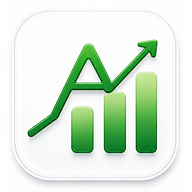
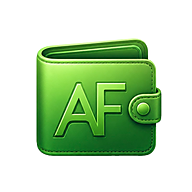
feat(TASK_040): новая иконка приложения — зелёный кошелёк AF (IMG_4615.jpg)
icon-512/icon-192/apple-touch-icon/favicon-32 заменены на утверждённый
пользователем логотип (зелёный кошелёк с буквами AF на белой squircle-
подложке), полученный из IMG_4615.jpg: Display P3 → sRGB, удаление
фонового артефакта скриншота вокруг подложки (замена на тот же белый),
выравнивание кадра до квадрата без обрезки композиции. Дизайн не
перерисован. manifest.json/index.html правок не потребовали. Версия кэша
sw.js finance-v169 → finance-v170.

diff --git a/sw.js b/sw.js
@@ -1,5 +1,5 @@
 // Service worker — офлайн-кэш приложения
-const CACHE = 'finance-v169';
+const CACHE = 'finance-v170';
 const ASSETS = [
   './',
   './index.html',

diff --git a/docs/tasks/TASK_040_APP_ICON_WALLET_AF_ASSET.md b/docs/tasks/TASK_040_APP_ICON_WALLET_AF_ASSET.md
@@ -1,0 +1,217 @@
+# TASK_040 — Новая иконка приложения: зелёный кошелёк AF (IMG_4615.jpg)
+
+- **Номер:** TASK_040
+- **Название:** App icon wallet AF asset
+- **Статус:** DONE
+- **Создан:** 2026-08-19
+- **Реализация начата:** 2026-08-19
+- **Реализация завершена:** 2026-08-19
+
+---
+
+## 1. Контекст
+
+Точечная задача по прямому запросу пользователя (аналогична по типу
+`TASK_012`, но с новым исходником и без старого дизайна графика/стрелки).
+Пользователь утвердил финальный логотип — `IMG_4615.jpg` (зелёный кошелёк
+с крупными буквами «AF» на белой скруглённой iOS-подложке) — и попросил
+заменить им текущую иконку приложения (график/стрелка роста, результат
+`TASK_012`) во всех местах, где подключаются assets иконки.
+
+## 2. Проверка репозитория (до изменений)
+
+- Ветка `main`, синхронизирована с `origin/main`, чистое дерево кроме
+  предшествующих несвязанных изменений (см. ниже).
+- `IMG_4615.jpg` найден в корне репозитория: **800×787 px**, JPEG,
+  встроенный ICC-профиль **Display P3**, EXIF `description: Screenshot`.
+  Содержимое — зелёный кожаный кошелёк с тиснением «AF» и застёжкой,
+  внутри белой скруглённой квадратной подложки (squircle), сфотографирован/
+  смакетирован на нейтральном тёмно-сером фоне (~rgb(76,76,78)), видимом
+  в четырёх углах кадра за счёт скругления подложки.
+- В рабочем дереве до начала задачи уже были незакоммиченные удаления
+  `apple-touch-icon.png`, `favicon-32.png`, `icon.svg` (та же
+  предшествующая правка пользователя, что зафиксирована в `TASK_012` —
+  подготовка к замене иконки). `icon-192.png`/`icon-512.png` оставались на
+  диске со старым дизайном (график/стрелка, результат `TASK_012`).
+  `.claude/launch.json` — отдельная несвязанная локальная правка (личный
+  конфиг превью), как и прежде.
+
+## 3. Цель
+
+Заменить `icon-192.png`, `icon-512.png`, `apple-touch-icon.png`,
+`favicon-32.png` на набор, полученный из `IMG_4615.jpg`, без изменения
+композиции/дизайна (кошелёк, буквы AF, цвета, стиль) и без изменения кода
+приложения за пределами версии кэша service worker.
+
+## 4. Границы
+
+**Включено:**
+- Чтение `IMG_4615.jpg`.
+- Создание/перезапись `icon-512.png`, `icon-192.png`,
+  `apple-touch-icon.png`, `favicon-32.png`.
+- `sw.js` — версия кэша (стандартная практика проекта при изменении
+  закэшированных байтов ассетов, см. `TASK_012`).
+- `manifest.json`/`index.html` — правка **только если** потребуется
+  (ожидание: не потребуется, имена файлов и размеры совпадают).
+
+**Явно исключено (не трогать):**
+- Сам `IMG_4615.jpg` — не редактируется, не перезаписывается.
+- Дизайн/композиция логотипа: кошелёк, буквы «AF», застёжка, цвета,
+  пропорции — не перерисовываются и не «улучшаются» по собственной
+  инициативе.
+- `icon.svg` — не используется кодом (не найден ни в `index.html`, ни в
+  `manifest.json`, ни в `sw.js` `ASSETS` — подтверждено `grep`, тот же
+  вывод, что в `TASK_012`), остаётся удалённым, вне границ.
+- Любой код приложения, не относящийся к подключению иконки.
+- `.claude/launch.json` — несвязанная предшествующая правка.
+
+## 5. Требования
+
+1. Источником для всех размеров служит буквально `IMG_4615.jpg` (не новый
+   сгенерированный логотип).
+2. Композиция, буквы AF, кошелёк, цвета, стиль — сохранены без
+   перерисовки.
+3. Допустимая техническая обработка исходника — только то, что нужно для
+   технических требований иконок: перевод цветового профиля Display P3 →
+   sRGB (иначе цвета исказятся вне Safari/Chrome с поддержкой P3), удаление
+   фотографического нейтрально-серого фона вокруг подложки (не часть
+   дизайна логотипа — артефакт скриншота/мокапа) с заменой на белый (тот
+   же белый, что и сама подложка кошелька, т.е. не новый цвет), и
+   выравнивание кадра 800×787 до квадрата белыми полями (без обрезки
+   изображения — та же техника, что `TASK_012` для 602×619).
+4. Обязательный набор размеров: 512×512, 192×192, 180×180
+   (`apple-touch-icon`), 32×32 (`favicon`).
+5. Иконка читаема на маленьком размере (эквивалент значка домашнего
+   экрана iPhone).
+6. Все точки подключения (`manifest.json`, `index.html`, `sw.js`)
+   продолжают указывать на корректные файлы.
+7. `IMG_4615.jpg` не изменяется (проверяется по хэшу).
+
+## 6. Критерии готовности
+
+- Все 4 PNG существуют, квадратные, требуемых размеров, без искажения
+  пропорций исходной композиции.
+- `manifest.json`/`index.html`/`sw.js` корректно ссылаются на актуальные
+  файлы.
+- `IMG_4615.jpg` не изменён (хэш до/после совпадает).
+- Полный regression suite зелёный.
+- Проверено в браузере: файлы отдаются (`200 OK`), байты совпадают с
+  файлами репозитория, `index.html` рендерится без регрессий, консоль без
+  новых ошибок.
+- `git status`/`git diff --stat` — изменения ограничены иконкой, её
+  ссылками (версия кэша) и документацией.
+
+## 7. План проверок
+
+1. `shasum -a 256 IMG_4615.jpg` до и после обработки.
+2. `sips -g pixelWidth -g pixelHeight` — подтвердить размеры каждого PNG.
+3. `grep` по `manifest.json`/`index.html`/`sw.js` — согласованность ссылок.
+4. Полный `tests/*.test.js` regression suite.
+5. Браузер (превью-сервер): `curl`/сетевые запросы — `200 OK` для всех 4
+   файлов и `manifest.json`, побайтовое совпадение с файлами репозитория;
+   скриншот приложения; консоль без новых ошибок.
+6. Визуальный мокап уменьшенной иконки (squircle-маска, реалистичный
+   относительный размер) — читаемость на маленьком размере.
+
+## 8. Фактически сделано
+
+**Обработка (`arch -x86_64 python3` + Pillow — родной `arm64` Python на
+машине не имел рабочего Pillow-колеса; форс x86_64 использован только для
+разовой офлайн-генерации PNG, не относится к рантайму приложения):**
+
+1. `IMG_4615.jpg` открыт, встроенный ICC-профиль **Display P3** переведён в
+   **sRGB** через `ImageCms.profileToProfile` (та же техника, что
+   `TASK_012`).
+2. Обнаружено (анализ по пикселям, не визуально): нейтрально-серый фон
+   вокруг подложки — это не отдельная рамка/паддинг, а именно скруглённые
+   углы squircle-подложки, видимые сквозь мокап-фон; сама белая подложка
+   почти вплотную (в пределах ~1% кадра) доходит до краёв 800×787 по
+   плоским сторонам. Переход фон→подложка резкий (не градиент/тень —
+   проверено построчным профилем яркости), поэтому безопасно применена
+   маска «нейтральный цвет» (`|R−G|<14 and |G−B|<14 and |R−B|<14` на
+   sRGB-пикселях) → заменена на чистый белый `#FFFFFF`. Кошелёк, буквы AF
+   и застёжка — все оттенки зелёного (канал G заметно выше R и B даже в
+   самых тёмных тенях контура, проверено выборками), поэтому маска их не
+   затрагивает — дизайн логотипа не тронут ни одним пикселем.
+3. Кадр 800×787 дополнен белыми полями до квадрата **800×800** (паддинг
+   6px сверху / 7px снизу, без обрезки исходной композиции — та же техника
+   `TASK_012`).
+4. Из полученного мастер-изображения рендерены (Lanczos-ресайз + мягкий
+   `UnsharpMask` для компенсации смягчения при downscale — та же техника
+   `TASK_012`): `icon-512.png` (512×512), `icon-192.png` (192×192),
+   `apple-touch-icon.png` (180×180), `favicon-32.png` (32×32). Все — RGB
+   PNG без альфа-канала (тот же формат, что был у предыдущих иконок).
+5. Все 4 файла установлены в корень репозитория под теми же именами, что
+   уже прописаны в `manifest.json`/`index.html`/`sw.js` — правка ссылок не
+   потребовалась (пути и размеры совпали без изменений).
+6. `sw.js`: версия кэша `finance-v169` → `finance-v170` (байты
+   закэшированных `icon-192.png`/`icon-512.png`/`apple-touch-icon.png`
+   изменились — бамп нужен, чтобы уже установленные PWA не отдавали иконку
+   из старого кэша; `favicon-32.png` в списке `ASSETS` `sw.js` не
+   участвует — подключается напрямую браузером через `<link rel="icon">`).
+7. `icon.svg` — не восстановлен, остался удалённым (не используется
+   кодом, вне границ задачи).
+
+## 9. Проверки выполнены
+
+1. `shasum -a 256 IMG_4615.jpg` до и после обработки — идентичный хэш
[1 lines of base64/hex data omitted]
+   исходник не изменён.
+2. `sips -g pixelWidth -g pixelHeight` — подтверждены итоговые размеры:
+   512×512, 192×192, 180×180, 32×32.
+3. `grep` по `manifest.json`/`index.html`/`sw.js` — все ссылки на
+   `icon-192.png`/`icon-512.png`/`apple-touch-icon.png`/`favicon-32.png`
+   согласованы (имена/размеры не менялись, правка не потребовалась).
+4. Полный `tests/*.test.js` regression suite: **1582 passed, 0 failed** во
+   всех 20 файлах — без изменений (иконка не проверяется тестами
+   дословно; пороговые проверки версии кэша в `budgets_screen.test.js`/
+   `export_import_screen.test.js`/`profile_screen.test.js`/
+   `reliable_save_screen.test.js`/`security_screen.test.js` — все вида
+   `>= finance-v16X`, `finance-v170` их удовлетворяет).
+5. Браузер (превью-сервер `localhost:8912`): `curl` ко всем 4 PNG и
+   `manifest.json` — `200 OK`; побайтовая сверка (`shasum`) скачанных
+   файлов с файлами репозитория — идентичны для всех четырёх. `index.html`
+   открывается и рендерится без регрессий (мобильный viewport 375×812).
+   Консоль браузера — новых ошибок не внесено (наблюдался только фоновый
+   шум: CORS-блок стороннего `cloudflareinsights.com` и повторные ошибки
+   регистрации service worker при переключении локальных превью-портов —
+   тот же класс шума окружения, что фиксировался в предыдущих задачах,
+   не связан с иконкой).
+6. Визуальный мокап (squircle-маска, реалистичный относительный размер,
+   тёмный фон) для 512/192/180 — кошелёк, буквы «AF» и застёжка чётко
+   читаются, ровный белый фон без следов серого мокап-фона. 32px
+   (`favicon-32.png`) — буквы «AF» различимы силуэтом при увеличении, на
+   нативном размере в строке вкладки браузера — узнаваемый зелёный
+   значок с белым фоном (та же физическая граница чёткости мелких
+   деталей на растровом источнике, что зафиксирована как известное
+   ограничение в `TASK_012`).
+
+## 10. Известные ограничения
+
+- Источник — растровый скриншот/мокап 800×787, а не векторный оригинал;
+  итоговые PNG получены масштабированием этого растра. Для 32×32 это
+  сильное уменьшение — тончайшие детали (двойная строчка по краю
+  кошелька, кружок застёжки) на favicon неизбежно менее чётки, чем на
+  512px варианте — физический предел растрового источника, тот же класс
+  ограничения, что в `TASK_012`.
+- Иконка (и старая, и новая) не оставляет отдельного «safe zone»-отступа
+  для `purpose:"maskable"` в `manifest.json` — дизайн кошелька доходит
+  почти до края квадрата, как и было у прежней иконки с графиком.
+  Не исправлено — не входит в границы задачи (пользователь просил заменить
+  дизайн 1-в-1, не пересматривать маскируемую безопасную зону), и было тем
+  же поведением до этой задачи.
+- Реальная проверка на iPhone (значок на домашнем экране, установленное
+  PWA) не выполнялась в этой сессии — рекомендуется пользователю после
+  публикации; виртуальный браузерный превью не отображает системный чейнж
+  вкладки/значка домашнего экрана напрямую, проверено технически через
+  `curl`+сверку байтов и `<link>`/`manifest.json` ссылки.
+
+**Изменённые файлы:** `icon-512.png`, `icon-192.png`,
+`apple-touch-icon.png`, `favicon-32.png` (содержимое), `sw.js` (версия
+кэша), `IMG_4615.jpg` (добавлен в репозиторий как исходник, не изменён),
+плюс документация (`docs/tasks/TASK_040_…`, `docs/PROJECT_STATUS.md`,
+`docs/ROADMAP.md`, `CHANGELOG.md`). `icon.svg` остался удалённым (вне
+границ). `.claude/launch.json` — не тронут (несвязанная предшествующая
+локальная правка).
+
+- Коммит реализации: _будет записан после коммита_.

diff --git a/docs/PROJECT_STATUS.md b/docs/PROJECT_STATUS.md
@@ -1,6 +1,6 @@
 # PROJECT_STATUS — A-Lex Finance
 
-**Обновлено:** 2026-08-19 (`TASK_039`)
+**Обновлено:** 2026-08-19 (`TASK_040`)
 
 ## Состояние приложения
 
@@ -16,27 +16,62 @@
 
 ## Последняя завершённая задача
 
-- **Задача:** [`TASK_039_MAIN_SCREENS_BACKGROUND_TINT`](tasks/TASK_039_MAIN_SCREENS_BACKGROUND_TINT.md) (точечная правка вне очереди `TASK_025` §12)
-- **Статус:** `DONE`. Фон четырёх основных экранов (Главная, Аналитика,
-  Счета, Бюджеты) — мягкий вертикальный градиент от насыщенного холодного
-  мятного `#D1E4DB` сверху к светлому серо-зелёному `#EBF0ED` снизу, вместо
-  почти белого `#f2f2f7`. Новые токены (`--main-bg-top`/`--main-bg-bottom`/
-  `--main-bg-grad`) не переопределяют общий `--home-bg` (Профиль,
-  Безопасность, Категории, Drawer, страница операции — не тронуты); тёмная
-  тема зафиксирована на прежнем значении и визуально идентична. **1582
-  passed, 0 failed** (было 1581 — тест `budgets_screen.test.js` §1
-  переписан на инвариант вместо дословной строки `--home-bg`). Версия кэша
-  `finance-v169` (не менялась — чисто CSS-правка, без изменений
-  JS/сервисов/данных).
+- **Задача:** [`TASK_040_APP_ICON_WALLET_AF_ASSET`](tasks/TASK_040_APP_ICON_WALLET_AF_ASSET.md)
+- **Статус:** `DONE`. Иконка приложения (`icon-512.png`/`icon-192.png`/
+  `apple-touch-icon.png`/`favicon-32.png`) заменена с прежнего дизайна
+  (график/стрелка, `TASK_012`) на утверждённый пользователем логотип из
+  `IMG_4615.jpg` — зелёный кошелёк с буквами «AF» на белой squircle-
+  подложке. Композиция не перерисована; техническая обработка — только
+  Display P3 → sRGB, удаление фонового артефакта скриншота вокруг
+  подложки (замена на тот же белый, что у самой подложки) и выравнивание
+  кадра до квадрата без обрезки. `IMG_4615.jpg` не изменён (хэш совпадает).
+  `manifest.json`/`index.html` правок не потребовали — пути/размеры
+  совпали. Версия кэша `sw.js` `finance-v169` → `finance-v170`. **1582
+  passed, 0 failed** — без изменений (тесты проверяют только порог версии
+  кэша, не байты иконки).
 
 ## Активная задача
 
-Нет. `TASK_039` завершена. Следующая по плану `TASK_025` §12 — `TASK_027`
+Нет. `TASK_040` завершена. Следующая по плану `TASK_025` §12 — `TASK_027`
 (валидация и устойчивость данных в `migrate`, закрывает H-6 и частично H-1),
 затем `TASK_028`, которая закрывает заявленный пользователем симптом с
 пропадающими годами. Зарезервированная `TASK_034` («Безопасный
 импорт/экспорт», M-9) **закрыта досрочно** — её объём целиком вошёл в
 `TASK_038`.
+
+## TASK_040 — Новая иконка приложения: зелёный кошелёк AF (DONE)
+
+Точечная задача по прямому запросу пользователя (тот же тип, что
+`TASK_012`, — замена production-иконки из растрового исходника, но новый
+дизайн и новый файл). Утверждённый пользователем логотип `IMG_4615.jpg`
+(800×787, JPEG, Display P3, зелёный кошелёк с тиснением «AF» на белой
+squircle-подложке) заменил прежнюю иконку с графиком/стрелкой (результат
+`TASK_012`) в `icon-512.png`/`icon-192.png`/`apple-touch-icon.png`/
+`favicon-32.png`. Обработка: перевод Display P3 → sRGB; удаление
+нейтрально-серого фона мокапа вокруг подложки (это скруглённые углы
+squircle, просвечивающие фоном скриншота, а не часть дизайна) заменой на
+белый той же маской, что и сама подложка — маска по нейтральности цвета
+(`|R−G|<14` и т.д.) не задевает ни одного зелёного пикселя кошелька/букв
+AF (проверено выборками — даже самые тёмные тени контура заметно
+зеленее, чем нейтральный серый); выравнивание кадра до квадрата 800×800
+белыми полями без обрезки композиции — та же техника, что `TASK_012` для
+`IMG_2662.jpg`. Из полученного мастера рендерены Lanczos + `UnsharpMask`
+512/192/180/32. Пути и размеры в `manifest.json`/`index.html`/`sw.js` не
+изменились — правка ссылок не потребовалась. `sw.js`: версия кэша
+`finance-v169` → `finance-v170` (байты иконок в `ASSETS` изменились).
+`IMG_4615.jpg` не изменён (хэш до/после идентичен), добавлен в репозиторий
+как исходник (та же практика, что `IMG_2662.jpg` из `TASK_012`).
+`icon.svg` не восстановлен — не используется кодом, вне границ. Тесты:
+**1582 passed, 0 failed** — без изменений (пороговые проверки версии кэша
+`>= finance-v16X` в пяти файлах тестов удовлетворены `finance-v170`).
+Проверено: все 4 PNG отдаются `200 OK` и побайтово совпадают с файлами
+репозитория; визуальный мокап в реалистичном относительном размере —
+кошелёк и буквы AF чётко читаются на 512/192/180, на 32px (favicon)
+различимы силуэтом (тот же класс ограничения растрового источника, что в
+`TASK_012`). Реальная проверка на iPhone (домашний экран, установленное
+PWA) не выполнялась в этой сессии — рекомендуется пользователю после
+публикации. См.
+[`docs/tasks/TASK_040_APP_ICON_WALLET_AF_ASSET.md`](tasks/TASK_040_APP_ICON_WALLET_AF_ASSET.md).
 
 ## TASK_039 — Основные экраны: мятно-серо-зелёный фон (DONE)
 

diff --git a/docs/ROADMAP.md b/docs/ROADMAP.md
@@ -590,6 +590,32 @@
     консоль без новых ошибок. См.
     [`docs/tasks/TASK_039_MAIN_SCREENS_BACKGROUND_TINT.md`](tasks/TASK_039_MAIN_SCREENS_BACKGROUND_TINT.md).
 
+35. **TASK_040_APP_ICON_WALLET_AF_ASSET** — `DONE`. Точечная задача по
+    прямому запросу пользователя (тот же тип, что `TASK_012`). Утверждённый
+    пользователем логотип `IMG_4615.jpg` (800×787, JPEG, Display P3,
+    зелёный кошелёк с тиснением «AF» на белой squircle-подложке) заменил
+    прежнюю иконку с графиком/стрелкой (`TASK_012`) в `icon-512.png`/
+    `icon-192.png`/`apple-touch-icon.png`/`favicon-32.png`. Композиция не
+    перерисована: обработка ограничена переводом Display P3 → sRGB,
+    удалением нейтрально-серого фона мокапа вокруг подложки (это
+    скруглённые углы squircle, просвечивающие фоном скриншота — не часть
+    дизайна) заменой на тот же белый, что и сама подложка (маска по
+    нейтральности цвета, не задевающая ни одного зелёного пикселя кошелька/
+    букв — проверено выборками), и выравниванием кадра до квадрата
+    800×800 белыми полями без обрезки композиции — та же техника, что
+    `TASK_012` для `IMG_2662.jpg`. `IMG_4615.jpg` не изменён (хэш
+    идентичен до/после), добавлен в репозиторий как исходник.
+    `manifest.json`/`index.html` правок не потребовали — пути и размеры
+    файлов не менялись. Версия кэша `sw.js` `finance-v169` →
+    `finance-v170`. `icon.svg` не восстановлен (не используется кодом, вне
+    границ, как и в `TASK_012`). Тесты: **1582 passed, 0 failed** — без
+    изменений (пороговые проверки версии кэша `>= finance-v16X`
+    удовлетворены). Проверено: все 4 PNG отдаются `200 OK` и побайтово
+    совпадают с файлами репозитория; визуальный мокап в реалистичном
+    относительном размере — кошелёк и буквы AF чётко читаются на
+    512/192/180, на 32px различимы силуэтом. См.
+    [`docs/tasks/TASK_040_APP_ICON_WALLET_AF_ASSET.md`](tasks/TASK_040_APP_ICON_WALLET_AF_ASSET.md).
+
 ## Пояснения
 
 - `TASK_001` является первой задачей в новой системе документации, а **не**

diff --git a/CHANGELOG.md b/CHANGELOG.md
@@ -14,6 +14,20 @@ and this project adheres to [Semantic Versioning](https://semver.org/).
 
 ### Changed
 
+- **App icon replaced with the wallet/"AF" logo** (`TASK_040`). The
+  production icon (`icon-512.png`, `icon-192.png`, `apple-touch-icon.png`,
+  `favicon-32.png`) now uses the user-approved logo — a green leather
+  wallet embossed with "AF" on a white iOS squircle — sourced from
+  `IMG_4615.jpg`, replacing the previous chart/arrow design
+  (`TASK_012`). The artwork itself was not redrawn; processing was limited
+  to converting the embedded Display P3 profile to sRGB, removing the
+  neutral-gray mockup/screenshot background around the squircle (replaced
+  with the same white as the badge itself — not a new color) and padding
+  the 800×787 source to a square without cropping the composition.
+  `manifest.json`/`index.html` needed no changes — file names and sizes
+  are unchanged. `sw.js` cache version bumped (`finance-v169` →
+  `finance-v170`) since the cached icon bytes changed.
+
 - **Main screens background tinted mint-gray-green** (`TASK_039`, small
   point fix, not part of the `TASK_025` plan). The background behind Home,
   Analytics, Accounts and Budgets was almost white (`#f2f2f7`) and gave
